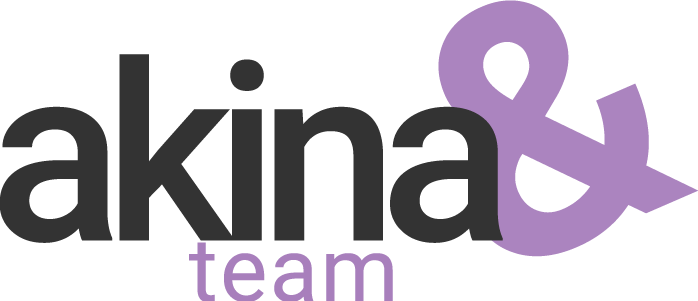
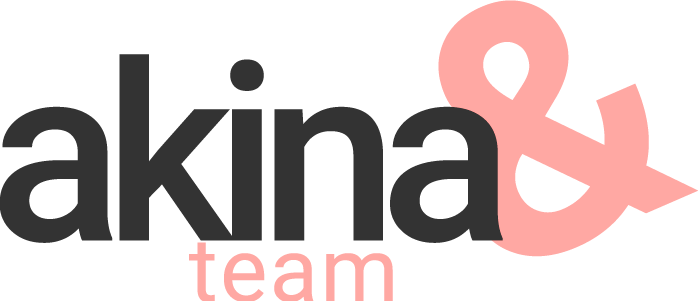
ver 0.2.0 foundation and stylized mainpage

Changed region(s): [[0.6017, 0.0, 1.0, 0.8671], [0.2708, 0.8073, 0.5716, 1.0]]

diff --git a/src/Route.jsx b/src/Route.jsx
@@ -6,8 +6,8 @@ import {
   Link,
   Navigate
 } from "react-router-dom";
-import Exercises from "./Exercises";
-import Home from "./Home";
+import Stages from "./Stages";
+import Mainpage from "./Mainpage";
 import Team from "./Team";
 import Error from "./404";
 import "./Header.css";
@@ -15,30 +15,41 @@ import logo from "./team.png";
 
 export default function Header() {
   return (
-    <BrowserRouter>
-      <div>
-        <div className="flex">
-          <img src={logo} alt="" className="logo"/>
-          <div>
-            <Link to="" className="link">Главная</Link>
+        <BrowserRouter>
+        <div className="container">
+          <div className="flex">
+            <img src={logo} alt="" className="logo"/>
+            <div>
+              <Link to="" className="link">Главная</Link>
+            </div>
+            <div>
+              <Link to="/team" className="link">Команда</Link>
+            </div>
+            <div>
+              <Link to="/stages" className="link">Этапы</Link>
+            </div>
           </div>
-          <div>
-            <Link to="/team" className="link">Команда</Link>
-          </div>
-          <div>
-            <Link to="/exercises" className="link">Упражнения</Link>
+
+          <div className="hr"></div>
+          <Routes>
+            <Route path="/" element={<Mainpage />}></Route>
+            <Route path="/team" element={<Team />}></Route>
+            <Route path="/stages" element={<Stages />}></Route>
+            <Route path="/404" element={<Error/>}></Route>
+            <Route path="*" element={<Navigate replace to="/404" />} />
+          </Routes>
+        </div>
+        <div className="footer">
+          <div className="container">
+            <div className="flex__footer">
+              <Link to="" className="link__footer">Главная</Link>
+              <Link to="/team" className="link__footer">Команда</Link>
+              <Link to="/stages" className="link__footer">Этапы</Link>
+              <a href="https://github.com/adefrol/akina" className="link__footer">Репозиторий GitHub</a>
+            </div>
+            <p>akina team ©</p>
           </div>
         </div>
-
-        <hr />
-        <Routes>
-          <Route path="/" element={<Home />}></Route>
-          <Route path="/team" element={<Team />}></Route>
-          <Route path="/exercises" element={<Exercises />}></Route>
-          <Route path="/404" element={<Error/>}></Route>
-          <Route path="*" element={<Navigate replace to="/404" />} />
-        </Routes>
-      </div>
-    </BrowserRouter>
+      </BrowserRouter>
   );
 }

diff --git a/src/Mainpage.jsx b/src/Mainpage.jsx
@@ -1,0 +1,23 @@
+import React from "react";
+import "./main.css"
+import { Link } from "react-router-dom";
+
+export default function Mainpage() {
+    return (
+        <div className="mainpage">
+            <div>
+                <h2 className="greeting">Привет! Мы команда</h2>
+                <h1 className="akina__headling">akina</h1>
+            </div>
+            <div className="photo__block"></div>
+            <div className="about">
+                <h2>О нас</h2>
+                <p>Lorem ipsum, dolor sit amet consectetur adipisicing elit. Magnam excepturi beatae, modi omnis voluptatem esse veniam quae debitis reprehenderit maiores consectetur! Iusto molestiae suscipit voluptate dolor reiciendis ut reprehenderit cumque vero asperiores, consectetur debitis, tenetur sit aut quo possimus blanditiis. Neque omnis vero sint illo laboriosam culpa voluptatibus voluptates suscipit?</p>
+            </div>
+            <div className="flex">
+                <Link to="/stages" className="btn">Перейти к этапам</Link>
+                <Link to="/team" className="btn">Перейти к участникам</Link>
+            </div>
+        </div>
+    );
+  }

diff --git a/src/main.css b/src/main.css
@@ -1,0 +1,67 @@
+* {
+    font-family: "roboto", sans-serif;
+    margin-block-start: 0em;
+    margin-block-end: 0em;
+    --peach-color: #ffa6a2;
+    margin: 0;
+    padding: 0;
+}
+
+.greeting {
+    font-weight: 400;
+    text-align: center;
+}
+
+.akina__headling {
+    font-weight: 900;
+    text-align: center;
+    font-size: 60pt;
+    color: var(--peach-color)
+}
+
+.photo__block {
+    height:  400px;
+    width: 70%;
+    background-color: var(--peach-color);
+    margin: 0 auto;
+    border-radius: 50px;
+    margin-top: 20px;
+}
+
+.mainpage {
+    margin: 100px 0;
+}
+
+.about {
+    text-align: center;
+    max-width: 50%;
+    width: 100%;
+    margin: 0 auto;
+    margin-top: 20px;
+}
+
+.about h2 {
+    text-align: center;
+    font-size: 30pt;
+    color: var(--peach-color);
+}
+
+.about p {
+    margin-top: 10px;
+    font-size: 15pt;
+}
+
+.mainpage .flex {
+    margin-top: 100px;
+    display: flex;
+    justify-content: space-around;
+    font-size: 16pt;
+}
+
+.btn {
+    text-decoration: none;
+    color: white;
+    background-color: var(--peach-color);
+    padding: 10px;
+    border-radius: 50px;
+}

diff --git a/src/Header.css b/src/Header.css
@@ -1,7 +1,25 @@
+
+.hr {
+    background-color: #cfcfcf;
+    width: 90%;
+    height: 3px;
+    margin: 0 auto;
+}
+
+
+.container {
+    max-width: 1920px;
+    width: 100%;
+    margin: 0 auto;
+}
+
 .flex {
     display: flex;
     justify-content: space-around;
+    align-items: center;
+    margin: 20px 0;
 }
+
 
 .link {
     font-family: "roboto", sans-serif;
@@ -40,13 +58,17 @@
 }
 
 .error {
-    color: brown;
+    color: var(--peach-color) ;
     text-align: center;
     font-family: "roboto",sans-serif;
 
 }
 .error:visited {
-    color: brown;
+    color: var(--peach-color);
+}
+
+.error__page {
+    margin: 500px 0;
 }
 
 .error__page h2 {
@@ -62,4 +84,24 @@
 
 .logo {
     width: 10%;
+}
+
+.link__footer {
+    text-decoration: none;
+    color: black;
+}
+
+.flex__footer {
+    padding-top: 10px;
+    display: flex;
+    justify-content: space-around;
+}
+
+.footer {
+    background-color: #cfcfcf;
+}
+
+.footer p {
+    text-align: center;
+    margin-top: 20px;
 }

diff --git a/public/index.html b/public/index.html
@@ -3,8 +3,11 @@
   <head>
     <meta charset="utf-8" />
     <meta name="viewport" content="width=device-width, initial-scale=1" />
-    <link rel="manifest" href="%PUBLIC_URL%/manifest.json" />
     <title>AKINA TEAM</title>
+    <link rel="apple-touch-icon" sizes="180x180" href="favicon/apple-touch-icon.png">
+    <link rel="icon" type="image/png" sizes="32x32" href="favicon/favicon-32x32.png">
+    <link rel="icon" type="image/png" sizes="16x16" href="favicon/favicon-16x16.png">
+    <link rel="manifest" href="favicon/site.webmanifest">
   </head>
   <body>
     <div id="root"></div>

diff --git a/src/Stages.jsx b/src/Stages.jsx
@@ -1,6 +1,6 @@
 import React from "react";
 import "./Header.css";
-export default function Exercises() {
+export default function Stages() {
     return (
       
       <div className="iframe">

diff --git a/src/404.jsx b/src/404.jsx
@@ -1,6 +1,6 @@
 import React from "react";
 import { Link } from "react-router-dom";
-import Header from "./Header.css";
+import "./Header.css";
 
 export default function Error() {
     return(

diff --git a/README.md b/README.md
@@ -1,0 +1,3 @@
+# AKINA PROJECT
+ver 0.1.0 - Заготовка React проекта
+ver 0.2.0 - Готовый каркас сайта, оформленная главная страница
